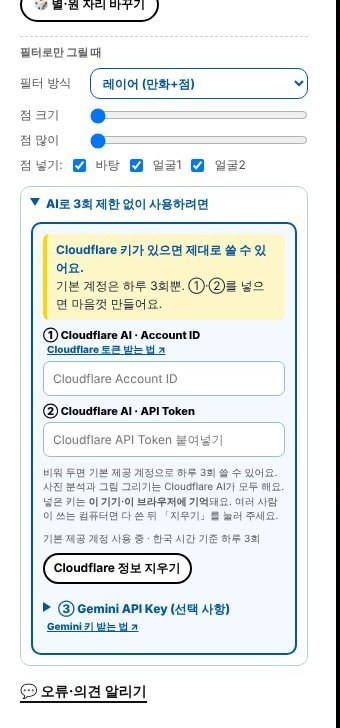
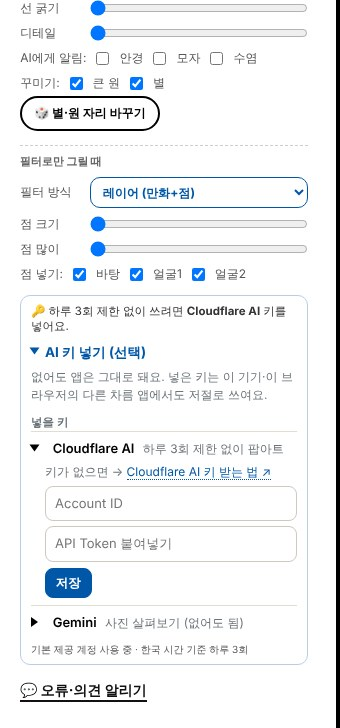
012 팝아트: 키 칸을 공통 모듈 aiKey로(001·004·007·010과 같은 모양)
012만 따로 만든 키 칸(①②③)을 쓰고 있어서 다른 앱과 모양·쓰는 법이 달랐다. 같은 칸(webapp.*)을 쓰는 공통 모듈로 바꾸고,
3회를 다 쓰면 그 상자를 펼쳐 Cloudflare 칸을 짚게 했다. '처음부터'가 Gemini 키를 지우던 것도 없앴다.
게시판 글·키 안내 페이지의 넣는 곳 설명과 캡처 07을 새 칸에 맞췄다.

Claude-Session: https://claude.ai/code/session_01Wjm5oceMavezZAmdN9gjDk

diff --git a/012/popart.html b/012/popart.html
@@ -302,29 +302,11 @@ html, body { background-color:#FFD700; background-image:radial-gradient(circle, 
 .photo-tools .file-col { min-width:0; }
 .photo-tools .quick-actions { display:flex; flex-direction:column; gap:5px; width:100%; }
 .photo-tools .quick-actions button { width:100%; padding:7px 8px; }
-.api-credentials { width:100%; display:flex; flex-direction:column; gap:8px; padding:10px; border:2px solid #0057A8; border-radius:10px; background:#f4f8ff; }
-.api-credentials .credential-row { display:flex; flex-direction:column; gap:4px; }
-.api-credentials label { font-size:11px; font-weight:800; }
-.api-credentials input { width:100%; min-width:0; padding:9px; border:1px solid #9bb8d8; border-radius:7px; font:inherit; font-size:12px; background:#fff; }
-.gem-fold > summary::before, .key-fold > summary::before { content:''; display:inline-block; width:0; height:0; margin-right:7px; vertical-align:1px; border-style:solid; border-width:5px 0 5px 8px; border-color:transparent transparent transparent currentColor; transition:transform .15s; }
-.gem-fold[open] > summary::before, .key-fold[open] > summary::before { transform:rotate(90deg); }   /* 닫힘 ▶ · 열림 ▼ */
-.cf-lead { font-size:12px; line-height:1.5; color:#123; background:#fff6c7; border-left:4px solid #FFD700; padding:7px 9px; border-radius:6px; }
-.cf-lead b { color:#0057A8; }
-.gem-fold summary { cursor:pointer; font-size:11px; font-weight:800; color:#444; list-style:none; padding:2px 0; }
-.gem-fold summary::-webkit-details-marker { display:none; }
-.api-credentials.key-nudge { background:#fff6c7; border-color:#E8A800; animation:keyNudge 1s ease-in-out 3; }
-.api-credentials.key-nudge input#cf-account-id, .api-credentials.key-nudge input#cf-api-token { border:2px solid #E8A800; }
 @keyframes keyNudge { 50% { box-shadow:0 0 0 6px rgba(255,215,0,.55); } }
 #ph { cursor:pointer; }
 .ph-mailbox { margin:6px 0 -4px; transition:transform .15s; }
 .ph-mailbox svg { width:clamp(110px,16vmin,170px); height:auto; display:block; }
 #ph:hover .ph-mailbox { transform:translateY(-3px) rotate(-2deg); }
-.key-fold { width:100%; border:1px solid #b8cde6; border-radius:10px; background:#fff; padding:0 10px; }
-.key-fold summary { cursor:pointer; list-style:none; padding:9px 0; font-size:12px; font-weight:800; color:#0057A8; }
-.key-fold summary::-webkit-details-marker { display:none; }
-.key-fold[open] { padding-bottom:10px; }
-.key-on { margin-left:6px; padding:1px 7px; border-radius:999px; background:#1b7f3a; color:#fff; font-size:10px; font-weight:800; }
-.key-on[hidden] { display:none; }
 .guide-prev { grid-column:1/-1; display:flex; gap:10px; align-items:center; padding:8px; border:1px dashed #9aa3ad; border-radius:10px; background:#fafafa; }
 .guide-prev[hidden] { display:none; }
 .guide-prev img { width:110px; height:110px; object-fit:contain; background:#fff; border:2px solid #111; border-radius:6px; flex:none; }
@@ -359,9 +341,10 @@ html, body { background-color:#FFD700; background-image:radial-gradient(circle, 
 .rp-x { position:absolute; top:8px; right:10px; border:0; background:none; font-size:28px; cursor:pointer; }
 .rp-state { min-height:1.4em; margin:10px 0 0; font-size:14px; line-height:1.5; }
 .rp-state.err { color:#C0001A; } .rp-state.ok { color:#1b7f3a; font-weight:700; }   /* ▦ 필터 카드는 필터로 그린 뒤에만 */
-.key-link { font-size:10px; font-weight:800; color:#0057A8; margin-left:4px; white-space:nowrap; }
-.gem-fold .credential-row { margin-top:6px; }
-#ai-route-info { font-size:10px; line-height:1.45; color:#555; }
+#ai-route-info { display:block; font-size:10px; line-height:1.45; color:#555; margin-top:4px; }
+.key-fold { width:100%; border:1px solid #b8cde6; border-radius:10px; background:#fff; padding:8px 10px; }   /* 키 칸: 공통 모듈 aiKey (2026-11-25) */
+.key-hint { margin:0 0 4px; font-size:11.5px; color:#333; }
+.key-fold.key-nudge { background:#fff6c7; border-color:#E8A800; animation:keyNudge 1s ease-in-out 3; }
 .app:not(.settings-open) .cp-head { display:flex; flex-direction:column; align-items:center; gap:8px; }
 .app:not(.settings-open) .cp-head .mailbox-btn { align-self:center; }
 .app:not(.settings-open) .photo-tools { display:contents; }
@@ -557,33 +540,10 @@ html, body { background-color:#FFD700; background-image:radial-gradient(circle, 
         <input type="checkbox" id="L-f1" checked> 얼굴1
         <input type="checkbox" id="L-f2" checked> 얼굴2</label>
     </div>
-    <details class="key-fold">
-      <summary>AI로 3회 제한 없이 사용하려면 <span class="key-on" id="keyOn" hidden>✓ 내 키 기억됨</span></summary>
-        <div class="api-credentials">
-          <div class="cf-lead"><b>Cloudflare 키가 있으면 제대로 쓸 수 있어요.</b><br>기본 계정은 하루 3회뿐. ①·②를 넣으면 마음껏 만들어요.</div>
-          <div class="credential-row">
-            <label for="cf-account-id">① Cloudflare AI · Account ID <a class="key-link" href="https://www.charum.org/study/doc.html?cloudflare_guide" target="_blank" rel="noopener noreferrer">Cloudflare 토큰 받는 법 ↗</a></label>
-            <input id="cf-account-id" type="text" autocomplete="off" spellcheck="false" placeholder="Cloudflare Account ID">
-          </div>
-          <div class="credential-row">
-            <label for="cf-api-token">② Cloudflare AI · API Token</label>
-            <input id="cf-api-token" type="password" autocomplete="new-password" spellcheck="false" placeholder="Cloudflare API Token 붙여넣기">
-          </div>
-          <small style="font-size:10px;color:#555;line-height:1.45;">비워 두면 기본 제공 계정으로 하루 3회 쓸 수 있어요. 사진 분석과 그림 그리기는 Cloudflare AI가 모두 해요.<br>넣은 키는 <b>이 기기·이 브라우저에 기억</b>돼요. 여러 사람이 쓰는 컴퓨터면 다 쓴 뒤 「지우기」를 눌러 주세요.</small>
-          <small id="ai-route-info">기본 제공 계정 · 하루 3회</small>
-          <div style="display:flex;gap:7px;flex-wrap:wrap;">
-            <button type="button" class="chip" style="padding:5px 9px;" onclick="clearCloudflareCredentials()">Cloudflare 정보 지우기</button>
-          </div>
-          <details class="gem-fold">
-            <summary>③ Gemini API Key (선택 사항) <a class="key-link" href="https://www.charum.org/study/doc.html?gemini_guide" target="_blank" rel="noopener noreferrer">Gemini 키 받는 법 ↗</a></summary>
-            <div class="credential-row">
-              <input id="gemini-key" type="password" autocomplete="off" placeholder="Gemini API 키 붙여넣기 · 없어도 사용 가능" aria-label="Gemini API Key">
-              <small style="font-size:10px;color:#555;line-height:1.45;">없어도 괜찮아요. 넣으면 Gemini가 사진을 살펴보고, 막히면 Cloudflare로 넘어가요(①·②가 비어 있으면 기본 계정 하루 3회).</small>
-              <button type="button" class="chip" style="padding:5px 9px;align-self:flex-start;" onclick="clearGeminiKey()">Gemini 키 지우기</button>
-            </div>
-          </details>
-        </div>
-    </details>
+    <div class="key-fold" id="keyBox">
+      <p class="key-hint">🔑 하루 3회 제한 없이 쓰려면 <b>Cloudflare AI</b> 키를 넣어요.</p>
+      <small id="ai-route-info">기본 제공 계정 · 하루 3회</small>
+    </div>
     <a class="report-link" href="https://www.charum.org/webapp/59987#write" target="_blank" rel="noopener" title="이 도구의 오류나 의견을 게시판 댓글로 남겨요">💬 오류·의견 알리기</a>
   </div>
 
@@ -642,6 +602,150 @@ html, body { background-color:#FFD700; background-image:radial-gradient(circle, 
   </div>
 </div>
 <input type="file" id="file-in" accept="image/*"/>
+<script id="aiKey">
+/* 차름 공통 모듈: AI 키 칸(aiKey) — 원본은 common/aiKey.js. 앱 안의 <script id="aiKey">는 tools/sync-modules.py가 복사해 넣은 것이라 손으로 고치지 않는다.
+   키를 쓰는 앱(001·004·007·010 베타·012)의 설정에 같은 모양으로(2026-11-25 선생님, 시안 A 고친 판):
+   - 접으면 한 줄 "▶ AI 키 넣기 (선택)" (+ "1개 기억됨" / 다 넣었으면 "AI 키 · 모두 기억됨")
+   - 펼치면 위에 '기억된 키'(접힌 줄, 누르면 앞뒤 몇 글자 + 바꾸기·지우기), 아래에 '넣을 키'(첫 것은 펼쳐 둠).
+     하나도 없으면 아래만, 다 넣었으면 위만.
+   - 키 받는 법은 서비스 이름이 든 링크 한 줄(서비스마다 안내 페이지 하나, charum.org/study/doc.html?이름_guide)
+   - 휴대폰으로 받기(keyRelay 모듈)는 Gemini·Google 음성만(중계 서버가 그 둘만 받음)
+   키는 이 기기·이 브라우저의 localStorage 같은 칸(webapp.geminiKey 등)에 — 다른 차름 앱이 저절로 불러 씀.
+
+   AiKey.mount(넣을 곳, { use: [{ svc: 'gemini', what: '내 사진에서 물건 찾기' }, …], open: false, onChange: (svc, 값) => {} })
+     svc: 'gemini' | 'gtts'(Google 음성) | 'azure'(키+지역) | 'cloudflare'(Account ID+토큰)
+     open: 처음부터 펼쳐 둘지   color: 앱 영역 색(제목·저장 단추·링크)   onChange: 저장·지울 때(값은 칸이 하나면 글, 둘 이상이면 {이름: 글}, 지우면 '')
+   AiKey.get('gemini') → 글('' = 없음) · AiKey.get('azure') → {key, region} · AiKey.has('gtts') → 참/거짓
+   AiKey.set('gtts', 글 또는 {…}) / AiKey.clear('gtts')   앱이 다른 길(키 확인 창 등)로 받은 키도 같은 칸에
+   AiKey.refresh()   다시 그림(앱이 키를 바꾼 뒤) — 다른 창에서 바뀐 것은 저절로 */
+window.AiKey = (function () {
+  'use strict';
+  var GUIDE = 'https://www.charum.org/study/doc.html?';
+  var SVC = {
+    gemini: { name: 'Gemini', guide: 'gemini_guide', relay: 'gemini', f: [{ n: 'key', k: 'webapp.geminiKey', ph: 'Gemini 키 붙여넣기 (AIza… 또는 AQ.…)', secret: true, test: /^(AIza|AQ\.)/ }] },
+    gtts: { name: 'Google 음성', guide: 'google-tts_guide', relay: 'cloud', f: [{ n: 'key', k: 'webapp.cloudKey', ph: 'Google 음성 키 붙여넣기', secret: true }] },
+    azure: { name: 'Azure 음성', guide: 'azure_guide', f: [{ n: 'key', k: 'webapp.azureKey', ph: 'Azure 음성 키 붙여넣기', secret: true }, { n: 'region', k: 'webapp.azureRegion', ph: '지역 (예: koreacentral)', test: /^[a-z0-9]+$/ }] },
+    cloudflare: { name: 'Cloudflare AI', guide: 'cloudflare_guide', f: [{ n: 'account', k: 'webapp.cfAccount', ph: 'Account ID' }, { n: 'token', k: 'webapp.cfToken', ph: 'API Token 붙여넣기', secret: true }] }
+  };
+  var boxes = [];
+  function rd(k) { try { return (localStorage.getItem(k) || '').trim(); } catch (e) { return ''; } }
+  function wr(k, v) { try { v ? localStorage.setItem(k, v) : localStorage.removeItem(k); } catch (e) {} }
+  function get(svc) {
+    var s = SVC[svc]; if (!s) return '';
+    if (s.f.length === 1) return rd(s.f[0].k);
+    var o = {}; s.f.forEach(function (f) { o[f.n] = rd(f.k); }); return o;
+  }
+  function has(svc) { var s = SVC[svc]; return !!s && s.f.every(function (f) { return !!rd(f.k); }); }
+  function set(svc, v) {
+    var s = SVC[svc]; if (!s) return;
+    if (s.f.length === 1) wr(s.f[0].k, typeof v === 'string' ? v.trim() : '');
+    else s.f.forEach(function (f) { wr(f.k, v && v[f.n] ? String(v[f.n]).trim() : ''); });
+    refresh();
+  }
+  function clear(svc) {
+    var s = SVC[svc]; if (!s) return;
+    s.f.forEach(function (f) { if (f.secret || s.f.length === 1) wr(f.k, ''); });   /* 지역·ID처럼 비밀이 아닌 칸은 남김(다시 넣을 때 편하게) */
+    refresh();
+  }
+  function esc(t) { return String(t).replace(/[&<>"']/g, function (c) { return { '&': '&amp;', '<': '&lt;', '>': '&gt;', '"': '&quot;', "'": '&#39;' }[c]; }); }
+  function tail(v) { v = String(v || ''); return v.length > 10 ? esc(v.slice(0, 4)) + '••••••••' + esc(v.slice(-4)) : '••••' + esc(v.slice(-2)); }
+
+  var CSS = '.kbx{font-size:14px;line-height:1.5}.kbx summary{list-style:none;cursor:pointer}.kbx summary::-webkit-details-marker{display:none}'
+    + '.kbx .kb-tri::before{content:"";display:inline-block;border-style:solid;border-width:5px 0 5px 7px;border-color:transparent transparent transparent currentColor;margin-right:7px;vertical-align:1px;transition:transform .15s}'
+    + '.kbx details[open]>summary.kb-tri::before,.kbx[open]>summary.kb-tri::before{transform:rotate(90deg)}'
+    + '.kbx>summary.kb-tri{color:var(--kb-ac,#17766F);font-weight:700;font-size:13.5px;padding:4px 0}'
+    + '.kbx .kb-pill{margin-left:6px;padding:1px 8px;border-radius:999px;background:#E6F2EA;color:#1B7F3A;font-size:11px;font-weight:700}'
+    + '.kbx .kb-lead{font-size:12px;color:#6B7478;margin:2px 0 4px}'
+    + '.kbx .kb-grp{font-size:11.5px;color:#6B7478;margin:10px 0 0;font-weight:600}'
+    + '.kbx .kb-svc{border-top:1px solid #E2DDD3;padding:7px 0 5px}'
+    + '.kbx .kb-svc>summary{font-weight:600;font-size:13px;display:flex;align-items:baseline;gap:8px;color:inherit}'
+    + '.kbx .kb-what{flex:1;font-weight:400;color:#6B7478;font-size:12px}'
+    + '.kbx .kb-ok{color:#1B7F3A;font-size:12px;font-weight:700;white-space:nowrap}'
+    + '.kbx .kb-in{padding:4px 0 2px 14px}'
+    + '.kbx .kb-how{font-size:12px;color:#6B7478;margin-bottom:5px}'
+    + '.kbx .kb-how a{color:var(--kb-ac,#17766F);text-decoration:none;border-bottom:1px dotted currentColor;white-space:nowrap}'
+    + '.kbx input{display:block;width:100%;box-sizing:border-box;font:inherit;font-size:13px;padding:7px 9px;border:1px solid #CFC9BD;border-radius:8px;background:#fff;color:inherit;margin-top:5px}'
+    + '.kbx input:first-of-type{margin-top:0}.kbx input.kb-bad{border-color:#C0473B}'
+    + '.kbx .kb-btns{display:flex;gap:6px;margin-top:6px;flex-wrap:wrap}'
+    /* 단추는 앱의 단추 CSS(#dockMore button 같은 것)에 덮이지 않게 !important */
+    + '.kbx .kb-b{font:inherit!important;font-size:12.5px!important;font-weight:600!important;padding:5px 10px!important;margin:0!important;border-radius:8px!important;border:1px solid #CFC9BD!important;background:#fff!important;color:#2B3236!important;cursor:pointer;box-shadow:none!important;min-height:0!important;height:auto!important}'
+    + '.kbx .kb-b.kb-p{background:var(--kb-ac,#17766F)!important;border-color:var(--kb-ac,#17766F)!important;color:#fff!important}'
+    + '.kbx .kb-b.kb-x{color:#9A3328!important;border-color:#E3C2BD!important}'
+    + '.kbx .kb-mask{font-family:ui-monospace,Menlo,monospace;font-size:12.5px;color:#6B7478;word-break:break-all}';
+  function css() { if (document.getElementById('kbxCss')) return; var s = document.createElement('style'); s.id = 'kbxCss'; s.textContent = CSS; document.head.appendChild(s); }
+
+  function render(b) {
+    var use = b.o.use.filter(function (u) { return SVC[u.svc]; });
+    var done = use.filter(function (u) { return has(u.svc); }), todo = use.filter(function (u) { return !has(u.svc); });
+    var wasOpen = b.root ? b.root.open : !!b.o.open;
+    var openSvc = {}; if (b.root && !b.reset) b.root.querySelectorAll('details.kb-svc[open]').forEach(function (d) { openSvc[d.dataset.svc] = 1; });
+    b.reset = false;   /* 저장·지운 뒤에는 처음 꼴로: 기억된 키는 접고, 넣을 키는 첫 것만 펼침 */
+    var all = use.length && !todo.length;
+    var h = '<summary class="kb-tri">' + (all ? 'AI 키 (선택)' : 'AI 키 넣기 (선택)')
+      + (done.length ? ' <span class="kb-pill">' + (all ? '모두 기억됨' : done.length + '개 기억됨') + '</span>' : '') + '</summary>';
+    h += '<div class="kb-lead">' + (done.length ? '' : '없어도 앱은 그대로 돼요. ') + '넣은 키는 이 기기·이 브라우저의 다른 차름 앱에서도 저절로 쓰여요.</div>';
+    function row(u, isDone, first) {
+      var s = SVC[u.svc], op = openSvc[u.svc] ? 1 : b.edit[u.svc] ? 1 : (!isDone && first && !Object.keys(openSvc).length);
+      var r = '<details class="kb-svc" data-svc="' + u.svc + '"' + (op ? ' open' : '') + '><summary class="kb-tri">' + esc(s.name)
+        + (u.what ? ' <span class="kb-what">' + esc(u.what) + '</span>' : '<span class="kb-what"></span>') + (isDone ? '<span class="kb-ok">✓ 기억됨</span>' : '') + '</summary><div class="kb-in">';
+      if (isDone && !b.edit[u.svc]) {
+        r += s.f.filter(function (f) { return f.secret; }).map(function (f) { return '<div class="kb-mask">' + tail(rd(f.k)) + '</div>'; }).join('')
+          + '<div class="kb-btns"><button type="button" class="kb-b" data-act="edit">바꾸기</button><button type="button" class="kb-b kb-x" data-act="del">지우기</button></div>';
+      } else {
+        r += '<div class="kb-how">키가 없으면 → <a href="' + GUIDE + s.guide + '" target="_blank" rel="noopener">' + esc(s.name) + ' 키 받는 법 ↗</a></div>'
+          + s.f.map(function (f) { return '<input data-f="' + f.n + '" type="' + (f.secret ? 'password' : 'text') + '" autocomplete="off" spellcheck="false" placeholder="' + esc(f.ph) + '" value="' + (f.secret ? '' : esc(rd(f.k))) + '">'; }).join('')
+          + '<div class="kb-btns"><button type="button" class="kb-b kb-p" data-act="save">저장</button>'
+          + (s.relay && window.KeyRelay ? '<button type="button" class="kb-b" data-act="phone">휴대폰으로 받기</button>' : '')
+          + (isDone ? '<button type="button" class="kb-b" data-act="cancel">그대로 두기</button>' : '') + '</div>';
+      }
+      return r + '</div></details>';
+    }
+    if (done.length) h += '<div class="kb-grp">기억된 키</div>' + done.map(function (u) { return row(u, true); }).join('');
+    if (todo.length) h += '<div class="kb-grp">넣을 키</div>' + todo.map(function (u, i) { return row(u, false, i === 0); }).join('');
+    if (!b.root) { b.root = document.createElement('details'); b.root.className = 'kbx'; b.el.appendChild(b.root); }
+    b.root.innerHTML = h; b.root.open = wasOpen;
+  }
+  function fire(b, svc) { b.reset = true; refresh(); if (b.o.onChange) { try { b.o.onChange(svc, has(svc) ? get(svc) : ''); } catch (e) { console.error(e); } } }
+  function act(b, e) {
+    var t = e.target.closest('[data-act]'); if (!t || !b.root.contains(t)) return;
+    e.preventDefault(); e.stopPropagation();
+    var d = t.closest('.kb-svc'), svc = d.dataset.svc, s = SVC[svc], a = t.dataset.act;
+    if (a === 'edit') { b.edit[svc] = 1; render(b); return; }
+    if (a === 'cancel') { delete b.edit[svc]; render(b); return; }
+    if (a === 'del') { clear(svc); fire(b, svc); return; }
+    if (a === 'phone') {
+      var want = {}; want[s.relay] = 1;
+      window.KeyRelay.receive({ want: [s.relay], onKeys: function (g) { var v = g && g[s.relay]; if (v) { delete b.edit[svc]; set(svc, String(v).trim()); fire(b, svc); } } });
+      return;
+    }
+    if (a === 'save') {
+      var ok = true, v = {};
+      s.f.forEach(function (f) {
+        var inp = d.querySelector('input[data-f="' + f.n + '"]'), x = inp.value.trim();
+        if (f.n === 'region') x = x.toLowerCase();
+        var bad = !x || (f.test && !f.test.test(x)); inp.classList.toggle('kb-bad', bad); if (bad) ok = false; v[f.n] = x;
+      });
+      if (!ok) return;
+      delete b.edit[svc]; set(svc, s.f.length === 1 ? v[s.f[0].n] : v); fire(b, svc);
+    }
+  }
+  function mount(el, o) {
+    if (typeof el === 'string') el = document.querySelector(el);
+    if (!el) return null;
+    css();
+    var b = { el: el, o: o || { use: [] }, root: null, edit: {} };
+    boxes.push(b); render(b);
+    if (b.o.color) b.root.style.setProperty('--kb-ac', b.o.color);
+    b.root.addEventListener('click', function (e) { act(b, e); });
+    b.root.addEventListener('keydown', function (e) { if (e.key === 'Enter' && e.target.tagName === 'INPUT') { var s = e.target.closest('.kb-svc').querySelector('[data-act="save"]'); if (s) s.click(); } });
+    ['pointerdown', 'pointerup', 'touchstart', 'touchend'].forEach(function (t) { b.root.addEventListener(t, function (e) { e.stopPropagation(); }); });
+    return b.root;
+  }
+  function refresh() { boxes = boxes.filter(function (b) { return b.el.isConnected; }); boxes.forEach(function (b) { if (b.root && !b.root.querySelector('input:focus')) render(b); }); }
+  window.addEventListener('storage', function (e) { if (!e.key || /^webapp\./.test(e.key)) refresh(); });
+  return { mount: mount, get: get, has: has, set: set, clear: clear, refresh: refresh, services: SVC };
+})();
+</script>
 <script src="https://shim-sung-hyun.github.io/web_app/relay/charum-relay.js?v=20261119-2"></script>
 
 <script>
@@ -662,11 +766,7 @@ let cloudflareAccountId = '';
 let cloudflareApiToken = '';
 // Gemini 키는 선택 사항이며, 선언되지 않아 발생하던 ReferenceError를 방지합니다.
 var geminiApiKey = ''; // 전역 변수로 선언해 모든 일반 스크립트와 이벤트에서 공유
-const KEYS = { gem: 'webapp.geminiKey', acc: 'webapp.cfAccount', tok: 'webapp.cfToken' };
-const keyGet = k => { try { return localStorage.getItem(k) || ''; } catch (e) { return ''; } };
-const keySet = (k, v) => { try { v ? localStorage.setItem(k, v) : localStorage.removeItem(k); } catch (e) {} };
 function updateAiRouteInfo() {
-  const on = document.getElementById('keyOn'); if (on) on.hidden = !((cloudflareAccountId && cloudflareApiToken) || geminiApiKey);
   const info = document.getElementById('ai-route-info');
   if (!info) return;
   const hasAccount = !!cloudflareAccountId;
@@ -695,42 +795,17 @@ function deviceId() {
   }
   return _dev;
 }
-function clearGeminiKey() {
-  geminiApiKey = ''; keySet(KEYS.gem, '');
-  const input = document.getElementById('gemini-key');
-  if (input) input.value = '';
+// 키는 공통 모듈 aiKey가 받고 기억함(webapp.geminiKey · webapp.cfAccount · webapp.cfToken — 다른 차름 앱과 같은 칸)
+function loadKeys() {
+  const cf = AiKey.get('cloudflare') || {};
+  cloudflareAccountId = AiKey.has('cloudflare') ? cf.account : ''; cloudflareApiToken = AiKey.has('cloudflare') ? cf.token : '';
+  geminiApiKey = AiKey.get('gemini') || '';
   updateAiRouteInfo();
 }
-function clearCloudflareCredentials() {
-  cloudflareAccountId = '';
-  cloudflareApiToken = ''; keySet(KEYS.acc, ''); keySet(KEYS.tok, '');
-  const account = document.getElementById('cf-account-id');
-  const token = document.getElementById('cf-api-token');
-  if (account) account.value = '';
-  if (token) token.value = '';
-  updateAiRouteInfo();
-}
-document.getElementById('gemini-key').addEventListener('input', e => {
-  geminiApiKey = e.target.value.trim(); keySet(KEYS.gem, geminiApiKey);
-  updateAiRouteInfo();
-});
-document.getElementById('cf-account-id').addEventListener('input', e => {
-  cloudflareAccountId = e.target.value.trim(); keySet(KEYS.acc, cloudflareAccountId);
-  updateAiRouteInfo();
-});
-document.getElementById('cf-api-token').addEventListener('input', e => {
-  cloudflareApiToken = e.target.value.trim(); keySet(KEYS.tok, cloudflareApiToken);
-  updateAiRouteInfo();
-});
-// 기억해 둔 키를 칸에 채움. 키가 있으면 접힌 키 칸 제목에 표시
-(function restoreKeys() {
-  geminiApiKey = keyGet(KEYS.gem).trim(); cloudflareAccountId = keyGet(KEYS.acc).trim(); cloudflareApiToken = keyGet(KEYS.tok).trim();
-  document.getElementById('gemini-key').value = geminiApiKey;
-  document.getElementById('cf-account-id').value = cloudflareAccountId;
-  document.getElementById('cf-api-token').value = cloudflareApiToken;
-  if (geminiApiKey) document.querySelector('.gem-fold').open = true;
-  updateAiRouteInfo();
-})();
+AiKey.mount('#keyBox', { color: '#0057A8', use: [{ svc: 'cloudflare', what: '하루 3회 제한 없이 팝아트' }, { svc: 'gemini', what: '사진 살펴보기 (없어도 됨)' }], onChange: loadKeys });
+document.querySelector('#keyBox .key-hint').after(document.querySelector('#keyBox .kbx'));
+window.addEventListener('storage', e => { if (!e.key || /^webapp\./.test(e.key)) loadKeys(); });
+loadKeys();
 
 const PROMPT_TRACE = `Redraw the input photo as a classic Roy Lichtenstein 1960s comic-book pop-art illustration.
 
@@ -790,13 +865,15 @@ function closePanel(force) {
   document.querySelector('.app').classList.remove('settings-open'); document.getElementById('control-panel').classList.remove('open');
   document.getElementById('panel-toggle').setAttribute('aria-expanded', 'false');
 }
-function keyNudge() {                          // 기본 계정 3회를 다 쓰면: 설정 창을 열고 Cloudflare 칸을 노랗게 짚음
-  openPanel(); document.querySelector('.key-fold').open = true;
-  const box = document.querySelector('.api-credentials'), id = document.getElementById('cf-account-id');
+function keyNudge() {                          // 기본 계정 3회를 다 쓰면: 설정 창을 열고 Cloudflare 키 칸을 노랗게 짚음
+  openPanel();
+  const box = document.getElementById('keyBox'), kb = box.querySelector('.kbx');
+  if (kb) { kb.open = true; const cf = kb.querySelector('details.kb-svc[data-svc=cloudflare]'); if (cf) cf.open = true; }
   box.classList.remove('key-nudge'); void box.offsetWidth; box.classList.add('key-nudge');
-  box.scrollIntoView({ behavior: 'smooth', block: 'center' }); setTimeout(() => id.focus({ preventScroll: true }), 400);
+  box.scrollIntoView({ behavior: 'smooth', block: 'center' });
+  setTimeout(() => { const inp = box.querySelector('details.kb-svc[data-svc=cloudflare] input'); if (inp) inp.focus({ preventScroll: true }); }, 400);
+  setTimeout(() => box.classList.remove('key-nudge'), 3500);
 }
-['cf-account-id', 'cf-api-token'].forEach(k => document.getElementById(k).addEventListener('input', () => document.querySelector('.api-credentials').classList.remove('key-nudge')));
 function openSettingsOnly() {
   openPanel();
 }
@@ -896,7 +973,6 @@ function show(state) {
 }
 
 function reset() {
-  clearGeminiKey();
   b64=''; mime='';
   sourceWidth=768; sourceHeight=768;
   document.getElementById('thumb').style.display='none';

diff --git a/cloudflare_guide.html b/cloudflare_guide.html
@@ -47,10 +47,10 @@ th{width:38%;font-weight:700}
   <li><b>Account ID 복사</b>: 로그인한 첫 화면에서 계정 이름 옆 <span class="ui">⋯</span> → <span class="ui">Copy account ID</span>를 누르거나, 왼쪽 메뉴 <span class="ui">AI</span> → <span class="ui">Workers AI</span> 화면에 보이는 Account ID를 복사합니다(32자리 영문·숫자).</li>
   <li><a class="go" href="https://dash.cloudflare.com/profile/api-tokens" target="_blank" rel="noopener">API 토큰 화면 열기</a><br><span class="ui">Create Token</span> → 본보기 목록에서 <b>Workers AI</b>의 <span class="ui">Use template</span> → <span class="ui">Continue to summary</span> → <span class="ui">Create Token</span>. 나온 토큰을 복사합니다(이 화면을 닫으면 다시 볼 수 없음).
     <p class="note"><b>Global API Key는 넣지 마세요.</b> Workers AI 권한만 있는 토큰을 이 일 전용으로 새로 만듭니다.</p></li>
-  <li>팝아트 왼쪽 <b>노란 화살표</b>로 설정판을 열고, 맨 아래 <span class="ui">▶ AI로 3회 제한 없이 사용하려면</span>을 눌러 ① Account ID, ② API Token 칸에 붙여 넣습니다. 제목에 <b>✓ 내 키 기억됨</b>이 붙으면 끝입니다.</li>
+  <li>팝아트 왼쪽 <b>노란 화살표</b>로 설정판을 열고, 맨 아래 <span class="ui">▶ AI 키 넣기 (선택)</span> → <span class="ui">Cloudflare AI</span>의 Account ID, API Token 칸에 붙여 넣고 <span class="ui">저장</span>을 누릅니다. <b>✓ 기억됨</b>이 붙으면 끝입니다.</li>
 </ol>
 <p class="note">처음 개인 계정으로 사진 분석을 쓸 때 모델 사용 동의가 한 번 필요할 수 있습니다 — <a href="https://developers.cloudflare.com/workers-ai/models/llama-3.2-11b-vision-instruct/" target="_blank" rel="noopener">모델 안내 페이지</a>의 동의(agree) 절차를 따릅니다.</p>
-<div class="warnline">Cloudflare 정보는 <b>그 기기·그 브라우저에 기억</b>되어 다음부터 다시 넣지 않아도 됩니다. <b>여러 사람이 쓰는 컴퓨터</b>라면 다 쓴 뒤 <span class="ui">Cloudflare 정보 지우기</span>를 눌러 주세요. Gemini 키와 달리 차름 변환 서버를 거쳐 Cloudflare로 가므로, 더 쓰지 않게 되면 토큰 화면에서 토큰도 지우세요.</div>
+<div class="warnline">Cloudflare 정보는 <b>그 기기·그 브라우저에 기억</b>되어 다음부터 다시 넣지 않아도 됩니다. <b>여러 사람이 쓰는 컴퓨터</b>라면 다 쓴 뒤 키 칸의 <span class="ui">지우기</span>를 눌러 주세요. Gemini 키와 달리 차름 변환 서버를 거쳐 Cloudflare로 가므로, 더 쓰지 않게 되면 토큰 화면에서 토큰도 지우세요.</div>
 <div class="warnline">키는 비밀번호와 같습니다. 남에게 보내거나 화면을 찍어 올리지 마세요. 손으로 옮겨 적지 말고 <b>복사 단추</b>로 복사합니다. 학교·교육청 계정은 막혀 있는 일이 많아 <b>개인 계정</b>을 씁니다.</div>
 </div>
 </body>

diff --git a/gemini_guide.html b/gemini_guide.html
@@ -58,7 +58,7 @@ th{width:38%;font-weight:700}
 <ul class="where">
   <li><b>[차름 수학] 도형 찾기</b> — 설정 화면 ② <span class="ui">휴대폰에서 받기</span>: QR을 찍은 휴대폰에서 사진을 고른 뒤 <b>Gemini 키</b> 칸에 붙여 넣고 보냅니다(사진과 키가 함께 감). 태블릿·컴퓨터는 <span class="ui">이 기기에서 고르기</span>로 사진을 넣으면 키 칸이 나옵니다.</li>
   <li><b>[차름 과학] 무엇으로 만들었을까</b> — 설정 화면 ② 학습 형태 <span class="ui">사진 받기</span> → <b>Gemini 키</b> 칸에 붙여 넣고 <span class="ui">저장</span>. 찾은 물체·물질은 선생님 확인 화면에서 고친 뒤에만 수업에 나옵니다.</li>
-  <li><b>[차름 미술] 팝아트</b> — 왼쪽 노란 화살표로 설정판을 열고 맨 아래 <span class="ui">▶ AI로 3회 제한 없이 사용하려면</span> → <span class="ui">③ Gemini API Key</span>를 펼쳐 붙여 넣습니다(없어도 됨). 하루 3회 제한을 풀려면 같은 칸의 ①·② <a href="https://www.charum.org/study/doc.html?cloudflare_guide" target="_blank" rel="noopener">Cloudflare</a>를 넣습니다.</li>
+  <li><b>[차름 미술] 팝아트</b> — 왼쪽 노란 화살표로 설정판을 열고 맨 아래 <span class="ui">▶ AI 키 넣기 (선택)</span> → <span class="ui">Gemini</span>에 붙여 넣고 <span class="ui">저장</span>(없어도 됨). 하루 3회 제한을 풀려면 같은 칸의 <a href="https://www.charum.org/study/doc.html?cloudflare_guide" target="_blank" rel="noopener">Cloudflare</a>를 넣습니다.</li>
   <li><b>사진 모으기</b>(자료실에 사진 보내기) — 보내기 화면의 키 칸(없어도 보낼 수 있음).</li>
 </ul>
 <p class="note">같은 기기에서 다른 차름 앱에 넣어 둔 Gemini 키는 저절로 채워집니다.</p>

diff --git a/012/popart_manual.html b/012/popart_manual.html
@@ -51,11 +51,11 @@
 <td style="vertical-align:top;font-size:15px;line-height:1.75;">
 <ol style="margin:0;padding-left:20px;">
 <li><a href="https://www.charum.org/study/doc.html?cloudflare_guide" target="_blank" style="color:#C8001A;font-weight:700;">Cloudflare 토큰 받는 법</a>을 따라 <b>Account ID</b>와 <b>API Token</b>을 복사합니다.</li>
-<li>앱 왼쪽 <b>노란 화살표</b>로 설정판을 열고, 맨 아래 <b>「▶ AI로 3회 제한 없이 사용하려면」</b>을 누릅니다.</li>
-<li>① Account ID, ② API Token 칸에 붙여 넣으면 끝. 제목에 <b>✓ 내 키 기억됨</b>이 붙습니다.</li>
+<li>앱 왼쪽 <b>노란 화살표</b>로 설정판을 열고, 맨 아래 <b>「▶ AI 키 넣기 (선택)」</b>을 누릅니다.</li>
+<li><b>Cloudflare AI</b>의 Account ID, API Token 칸에 붙여 넣고 <b>저장</b>. <b>✓ 기억됨</b>이 붙으면 끝입니다.</li>
 </ol>
 <p style="margin:8px 0 0;font-size:14px;color:#444;">· 한 번 넣은 키는 <b>그 기기·그 브라우저에 기억</b>되어 다음부터 다시 넣지 않아도 됩니다. <b>여러 사람이 쓰는 컴퓨터</b>라면 다 쓴 뒤 「지우기」를 눌러 주세요.<br>
-· ③ <a href="https://www.charum.org/study/doc.html?gemini_guide" target="_blank" style="color:#C8001A;font-weight:700;">Gemini 키</a>는 넣지 않아도 됩니다(사진 살펴보기에 씀). 다른 차름 앱에 넣어 둔 Gemini 키는 저절로 채워집니다.</p>
+· <a href="https://www.charum.org/study/doc.html?gemini_guide" target="_blank" style="color:#C8001A;font-weight:700;">Gemini 키</a>는 넣지 않아도 됩니다(사진 살펴보기에 씀). 다른 차름 앱에 넣어 둔 Gemini 키는 저절로 채워집니다.</p>
 </td></tr></tbody></table>
 </div>
 

diff --git a/docs/guidelines.md b/docs/guidelines.md
@@ -120,4 +120,4 @@
 
 **선생님 할 일**: ① 쓰지 않는 GitHub 토큰 `charum-images-upload` 지우기(또는 11-22 만료 두기) ② (원하면) 서버 `key-relay.php` 원본을 세션에 올려 `server/charum-api/`에 보관 ③ 012용 Worker 배포(`012/charum-ai-worker.js`를 붙여 넣고 KV 바인딩 이름을 `KV`로, 자세한 것은 `012/README.txt`)
 
-**총괄 할 일**(2026-11-22 고침): ⓪-1 012 팝아트의 키 칸을 공통 모듈 aiKey로(Cloudflare·Gemini — 012 세션이 쉬고 있을 때, 또는 012 세션에 맡김. 키 칸 이름은 이미 webapp.* 같은 칸이라 지금도 다른 앱과 함께 씀). ⓪ 자료 창고 정리(2026-11-22 끝) 뒤 남은 것 — 선생님이 charum.org 로고 png를 `media/brand/charum-logo.png`로 올려 주시면 끝(지금은 앱이 charum.org 원본을 대신 씀). 다른 세션이 옛 주소(`media/stage-beta/`, `media/stage/prompts/`, `media/animals/prompts/`)로 일하던 것이 있으면 새 주소로. ① 관리 버튼(adminHold, 2026-11-11 넣음)이 실제 전자칠판에서 잘 눌리는지 선생님 확인을 기다림 — 여전히 안 먹으면 증상을 듣고 `common/adminHold.js`의 넓이(.ah-pad)·끊김 허용(GRACE)을 고친 뒤 sync. 2026-11-11에 끝낸 것 — keyRelay·photoRelay를 common/으로(001·002·004·007), 002·003·005·006 명단을 roster 모듈로(005·006은 기록 창의 "학생 넣기·빼기", 002·003은 기록 화면 "학생 관리"가 바뀜. 설정 ①의 "+ 학생 넣기"는 그대로라 캡처 01은 안 바뀜, 005·006 캡처 05만 새로), 008 시험 파일 `_trash`로. 다음 전체 점검은 공용 그림·모듈·목소리를 크게 바꾼 뒤나 12월 중순쯤. 그때 볼 것: 2026-11-25에 옮긴 모듈(adminButton·reportLink·endLesson·printFit·recordKit·spot·voiceKit·progBar)이 실제 전자칠판에서 잘 도는지 선생님 말씀 듣기(endLesson·reportLink 판 어긋남은 모듈로 옮기며 없어짐). 앱마다의 일(008 그림풍 섞임, 009·011 게시판 글 번호와 011 목소리, 001 캡처 01, 010 보류)은 선생님이 앱 세션에 나눠 맡김.
+**총괄 할 일**(2026-11-22 고침): ⓪ 자료 창고 정리(2026-11-22 끝) 뒤 남은 것 — 선생님이 charum.org 로고 png를 `media/brand/charum-logo.png`로 올려 주시면 끝(지금은 앱이 charum.org 원본을 대신 씀). 다른 세션이 옛 주소(`media/stage-beta/`, `media/stage/prompts/`, `media/animals/prompts/`)로 일하던 것이 있으면 새 주소로. ① 관리 버튼(adminHold, 2026-11-11 넣음)이 실제 전자칠판에서 잘 눌리는지 선생님 확인을 기다림 — 여전히 안 먹으면 증상을 듣고 `common/adminHold.js`의 넓이(.ah-pad)·끊김 허용(GRACE)을 고친 뒤 sync. 2026-11-11에 끝낸 것 — keyRelay·photoRelay를 common/으로(001·002·004·007), 002·003·005·006 명단을 roster 모듈로(005·006은 기록 창의 "학생 넣기·빼기", 002·003은 기록 화면 "학생 관리"가 바뀜. 설정 ①의 "+ 학생 넣기"는 그대로라 캡처 01은 안 바뀜, 005·006 캡처 05만 새로), 008 시험 파일 `_trash`로. 다음 전체 점검은 공용 그림·모듈·목소리를 크게 바꾼 뒤나 12월 중순쯤. 그때 볼 것: 2026-11-25에 옮긴 모듈(adminButton·reportLink·endLesson·printFit·recordKit·spot·voiceKit·progBar)이 실제 전자칠판에서 잘 도는지 선생님 말씀 듣기(endLesson·reportLink 판 어긋남은 모듈로 옮기며 없어짐). 앱마다의 일(008 그림풍 섞임, 009·011 게시판 글 번호와 011 목소리, 001 캡처 01, 010 보류)은 선생님이 앱 세션에 나눠 맡김.
